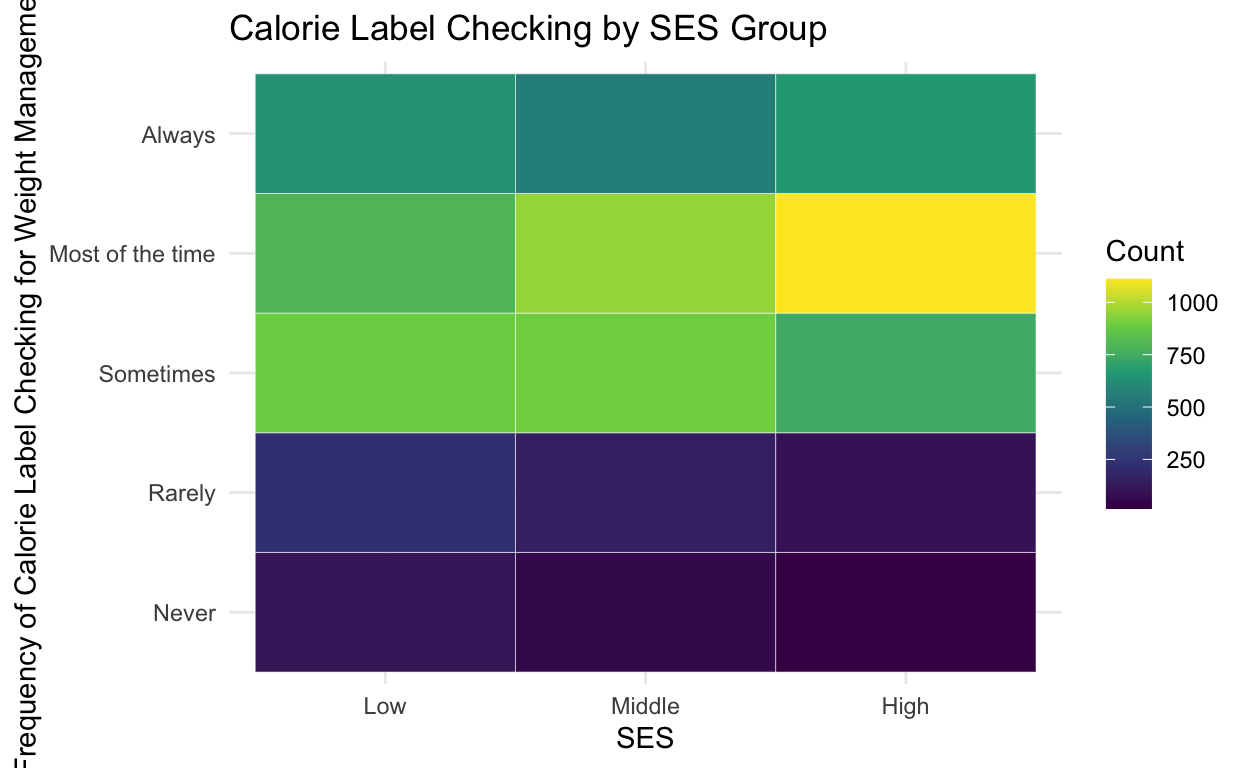
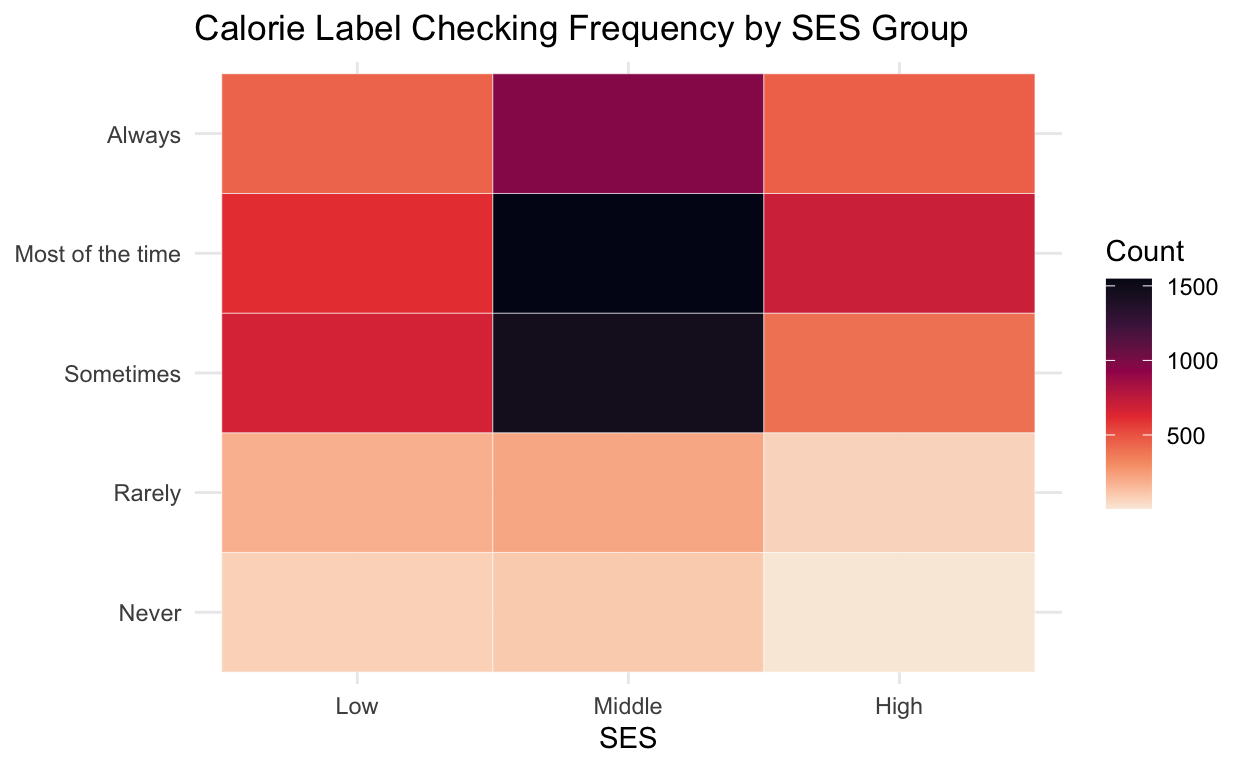
plot2

diff --git a/_posts/2025-03-07-ses-and-calorie-check-for-weight/ses-and-calorie-check-for-weight.html b/_posts/2025-03-07-ses-and-calorie-check-for-weight/ses-and-calorie-check-for-weight.html
@@ -118,7 +118,7 @@ code span.wa { color: #5e5e5e; font-style: italic; } /* Warning */
   <!--/radix_placeholder_rmarkdown_metadata-->
   
   <script type="text/json" id="radix-resource-manifest">
-  {"type":"character","attributes":{},"value":["ses-and-calorie-check-for-weight_files/anchor-4.2.2/anchor.min.js","ses-and-calorie-check-for-weight_files/bowser-1.9.3/bowser.min.js","ses-and-calorie-check-for-weight_files/distill-2.2.21/template.v2.js","ses-and-calorie-check-for-weight_files/figure-html5/unnamed-chunk-3-1.png","ses-and-calorie-check-for-weight_files/figure-html5/unnamed-chunk-4-1.png","ses-and-calorie-check-for-weight_files/figure-html5/unnamed-chunk-5-1.png","ses-and-calorie-check-for-weight_files/header-attrs-2.29/header-attrs.js","ses-and-calorie-check-for-weight_files/jquery-3.6.0/jquery-3.6.0.js","ses-and-calorie-check-for-weight_files/jquery-3.6.0/jquery-3.6.0.min.js","ses-and-calorie-check-for-weight_files/jquery-3.6.0/jquery-3.6.0.min.map","ses-and-calorie-check-for-weight_files/popper-2.6.0/popper.min.js","ses-and-calorie-check-for-weight_files/tippy-6.2.7/tippy-bundle.umd.min.js","ses-and-calorie-check-for-weight_files/tippy-6.2.7/tippy-light-border.css","ses-and-calorie-check-for-weight_files/tippy-6.2.7/tippy.css","ses-and-calorie-check-for-weight_files/tippy-6.2.7/tippy.umd.min.js","ses-and-calorie-check-for-weight_files/webcomponents-2.0.0/webcomponents.js"]}
+  {"type":"character","attributes":{},"value":["plot21.png","plot22.png","ses-and-calorie-check-for-weight_files/anchor-4.2.2/anchor.min.js","ses-and-calorie-check-for-weight_files/bowser-1.9.3/bowser.min.js","ses-and-calorie-check-for-weight_files/distill-2.2.21/template.v2.js","ses-and-calorie-check-for-weight_files/figure-html5/unnamed-chunk-3-1.png","ses-and-calorie-check-for-weight_files/figure-html5/unnamed-chunk-4-1.png","ses-and-calorie-check-for-weight_files/figure-html5/unnamed-chunk-5-1.png","ses-and-calorie-check-for-weight_files/figure-html5/unnamed-chunk-5-2.png","ses-and-calorie-check-for-weight_files/figure-html5/unnamed-chunk-6-1.png","ses-and-calorie-check-for-weight_files/header-attrs-2.29/header-attrs.js","ses-and-calorie-check-for-weight_files/jquery-3.6.0/jquery-3.6.0.js","ses-and-calorie-check-for-weight_files/jquery-3.6.0/jquery-3.6.0.min.js","ses-and-calorie-check-for-weight_files/jquery-3.6.0/jquery-3.6.0.min.map","ses-and-calorie-check-for-weight_files/popper-2.6.0/popper.min.js","ses-and-calorie-check-for-weight_files/tippy-6.2.7/tippy-bundle.umd.min.js","ses-and-calorie-check-for-weight_files/tippy-6.2.7/tippy-light-border.css","ses-and-calorie-check-for-weight_files/tippy-6.2.7/tippy.css","ses-and-calorie-check-for-weight_files/tippy-6.2.7/tippy.umd.min.js","ses-and-calorie-check-for-weight_files/webcomponents-2.0.0/webcomponents.js"]}
   </script>
   <!--radix_placeholder_navigation_in_header-->
   <!--/radix_placeholder_navigation_in_header-->
@@ -1552,18 +1552,37 @@ code span.wa { color: #5e5e5e; font-style: italic; } /* Warning */
 <div class="layout-chunk" data-layout="l-body">
 
 </div>
-<h1 id="first-draft">First Draft</h1>
 <div class="layout-chunk" data-layout="l-body">
-<p><img src="ses-and-calorie-check-for-weight_files/figure-html5/unnamed-chunk-3-1.png" width="624" /></p>
+
 </div>
-<h1 id="second-draft">Second Draft</h1>
 <div class="layout-chunk" data-layout="l-body">
-<p><img src="ses-and-calorie-check-for-weight_files/figure-html5/unnamed-chunk-4-1.png" width="624" /></p>
+
 </div>
-<h1 id="third-draft">Third Draft</h1>
+<h3 id="final-plot">Final Plot</h3>
 <div class="layout-chunk" data-layout="l-body">
-<p><img src="ses-and-calorie-check-for-weight_files/figure-html5/unnamed-chunk-5-1.png" width="624" /></p>
+<p><img src="ses-and-calorie-check-for-weight_files/figure-html5/unnamed-chunk-5-1.png" width="624" data-distill-preview=1 /><img src="ses-and-calorie-check-for-weight_files/figure-html5/unnamed-chunk-5-2.png" width="624" data-distill-preview=1 /></p>
 </div>
+<div style="height: 30px;">
+
+</div>
+<div>
+<p><button onclick="showPlot('plot21')">Draft 1</button>
+<button onclick="showPlot('plot22')">Draft 2</button></p>
+</div>
+<div>
+<p>(Click the Draft buttons to view previous plots)</p>
+</div>
+<div id="plot-container">
+<p><img id="plot21" src="plot21.png">
+<img id="plot22" src="plot22.png" style="display:none; width: 100%; height: auto;"></p>
+</div>
+<script>
+  function showPlot(plotId) {
+    document.getElementById('plot21').style.display = "none";
+    document.getElementById('plot22').style.display = "none";
+    document.getElementById(plotId).style.display = "block";
+  }
+</script>
 <div class="sourceCode" id="cb1"><pre class="sourceCode r distill-force-highlighting-css"><code class="sourceCode r"></code></pre></div>
 <!--radix_placeholder_article_footer-->
 <!--/radix_placeholder_article_footer-->

diff --git a/docs/posts/2025-03-07-ses-and-calorie-check-for-weight/index.html b/docs/posts/2025-03-07-ses-and-calorie-check-for-weight/index.html
@@ -119,7 +119,7 @@ code span.wa { color: #5e5e5e; font-style: italic; } /* Warning */
 <!--/radix_placeholder_rmarkdown_metadata-->
   
   <script type="text/json" id="radix-resource-manifest">
-  {"type":"character","attributes":{},"value":["ses-and-calorie-check-for-weight_files/anchor-4.2.2/anchor.min.js","ses-and-calorie-check-for-weight_files/bowser-1.9.3/bowser.min.js","ses-and-calorie-check-for-weight_files/distill-2.2.21/template.v2.js","ses-and-calorie-check-for-weight_files/figure-html5/unnamed-chunk-3-1.png","ses-and-calorie-check-for-weight_files/figure-html5/unnamed-chunk-4-1.png","ses-and-calorie-check-for-weight_files/figure-html5/unnamed-chunk-5-1.png","ses-and-calorie-check-for-weight_files/header-attrs-2.29/header-attrs.js","ses-and-calorie-check-for-weight_files/jquery-3.6.0/jquery-3.6.0.js","ses-and-calorie-check-for-weight_files/jquery-3.6.0/jquery-3.6.0.min.js","ses-and-calorie-check-for-weight_files/jquery-3.6.0/jquery-3.6.0.min.map","ses-and-calorie-check-for-weight_files/popper-2.6.0/popper.min.js","ses-and-calorie-check-for-weight_files/tippy-6.2.7/tippy-bundle.umd.min.js","ses-and-calorie-check-for-weight_files/tippy-6.2.7/tippy-light-border.css","ses-and-calorie-check-for-weight_files/tippy-6.2.7/tippy.css","ses-and-calorie-check-for-weight_files/tippy-6.2.7/tippy.umd.min.js","ses-and-calorie-check-for-weight_files/webcomponents-2.0.0/webcomponents.js"]}
+  {"type":"character","attributes":{},"value":["plot21.png","plot22.png","ses-and-calorie-check-for-weight_files/anchor-4.2.2/anchor.min.js","ses-and-calorie-check-for-weight_files/bowser-1.9.3/bowser.min.js","ses-and-calorie-check-for-weight_files/distill-2.2.21/template.v2.js","ses-and-calorie-check-for-weight_files/figure-html5/unnamed-chunk-3-1.png","ses-and-calorie-check-for-weight_files/figure-html5/unnamed-chunk-4-1.png","ses-and-calorie-check-for-weight_files/figure-html5/unnamed-chunk-5-1.png","ses-and-calorie-check-for-weight_files/figure-html5/unnamed-chunk-5-2.png","ses-and-calorie-check-for-weight_files/figure-html5/unnamed-chunk-6-1.png","ses-and-calorie-check-for-weight_files/header-attrs-2.29/header-attrs.js","ses-and-calorie-check-for-weight_files/jquery-3.6.0/jquery-3.6.0.js","ses-and-calorie-check-for-weight_files/jquery-3.6.0/jquery-3.6.0.min.js","ses-and-calorie-check-for-weight_files/jquery-3.6.0/jquery-3.6.0.min.map","ses-and-calorie-check-for-weight_files/popper-2.6.0/popper.min.js","ses-and-calorie-check-for-weight_files/tippy-6.2.7/tippy-bundle.umd.min.js","ses-and-calorie-check-for-weight_files/tippy-6.2.7/tippy-light-border.css","ses-and-calorie-check-for-weight_files/tippy-6.2.7/tippy.css","ses-and-calorie-check-for-weight_files/tippy-6.2.7/tippy.umd.min.js","ses-and-calorie-check-for-weight_files/webcomponents-2.0.0/webcomponents.js"]}
   </script>
   <!--radix_placeholder_navigation_in_header-->
 <meta name="distill:offset" content="../.."/>
@@ -2482,18 +2482,37 @@ d-appendix d-footnote-list a.footnote-backlink {
 <div class="layout-chunk" data-layout="l-body">
 
 </div>
-<h1 id="first-draft">First Draft</h1>
 <div class="layout-chunk" data-layout="l-body">
-<p><img src="ses-and-calorie-check-for-weight_files/figure-html5/unnamed-chunk-3-1.png" width="624" /></p>
+
 </div>
-<h1 id="second-draft">Second Draft</h1>
 <div class="layout-chunk" data-layout="l-body">
-<p><img src="ses-and-calorie-check-for-weight_files/figure-html5/unnamed-chunk-4-1.png" width="624" /></p>
+
 </div>
-<h1 id="third-draft">Third Draft</h1>
+<h3 id="final-plot">Final Plot</h3>
 <div class="layout-chunk" data-layout="l-body">
-<p><img src="ses-and-calorie-check-for-weight_files/figure-html5/unnamed-chunk-5-1.png" width="624" /></p>
+<p><img src="ses-and-calorie-check-for-weight_files/figure-html5/unnamed-chunk-5-1.png" width="624" data-distill-preview=1 /><img src="ses-and-calorie-check-for-weight_files/figure-html5/unnamed-chunk-5-2.png" width="624" data-distill-preview=1 /></p>
 </div>
+<div style="height: 30px;">
+
+</div>
+<div>
+<p><button onclick="showPlot('plot21')">Draft 1</button>
+<button onclick="showPlot('plot22')">Draft 2</button></p>
+</div>
+<div>
+<p>(Click the Draft buttons to view previous plots)</p>
+</div>
+<div id="plot-container">
+<p><img id="plot21" src="plot21.png">
+<img id="plot22" src="plot22.png" style="display:none; width: 100%; height: auto;"></p>
+</div>
+<script>
+  function showPlot(plotId) {
+    document.getElementById('plot21').style.display = "none";
+    document.getElementById('plot22').style.display = "none";
+    document.getElementById(plotId).style.display = "block";
+  }
+</script>
 <div class="sourceCode" id="cb1"><pre class="sourceCode r distill-force-highlighting-css"><code class="sourceCode r"></code></pre></div>
 <!--radix_placeholder_article_footer-->
 <!--/radix_placeholder_article_footer-->

diff --git a/docs/index.html b/docs/index.html
@@ -2595,7 +2595,7 @@ function init_posts_list() {
 </div>
 </div>
 <div class="thumbnail">
-<img src="posts/2025-03-07-ses-and-calorie-check-for-weight/ses-and-calorie-check-for-weight_files/figure-html5/unnamed-chunk-3-1.png"/>
+<img src="posts/2025-03-07-ses-and-calorie-check-for-weight/ses-and-calorie-check-for-weight_files/figure-html5/unnamed-chunk-5-1.png"/>
 </div>
 <div class="description">
 <h2>SES and Calorie Check for Weight</h2>
